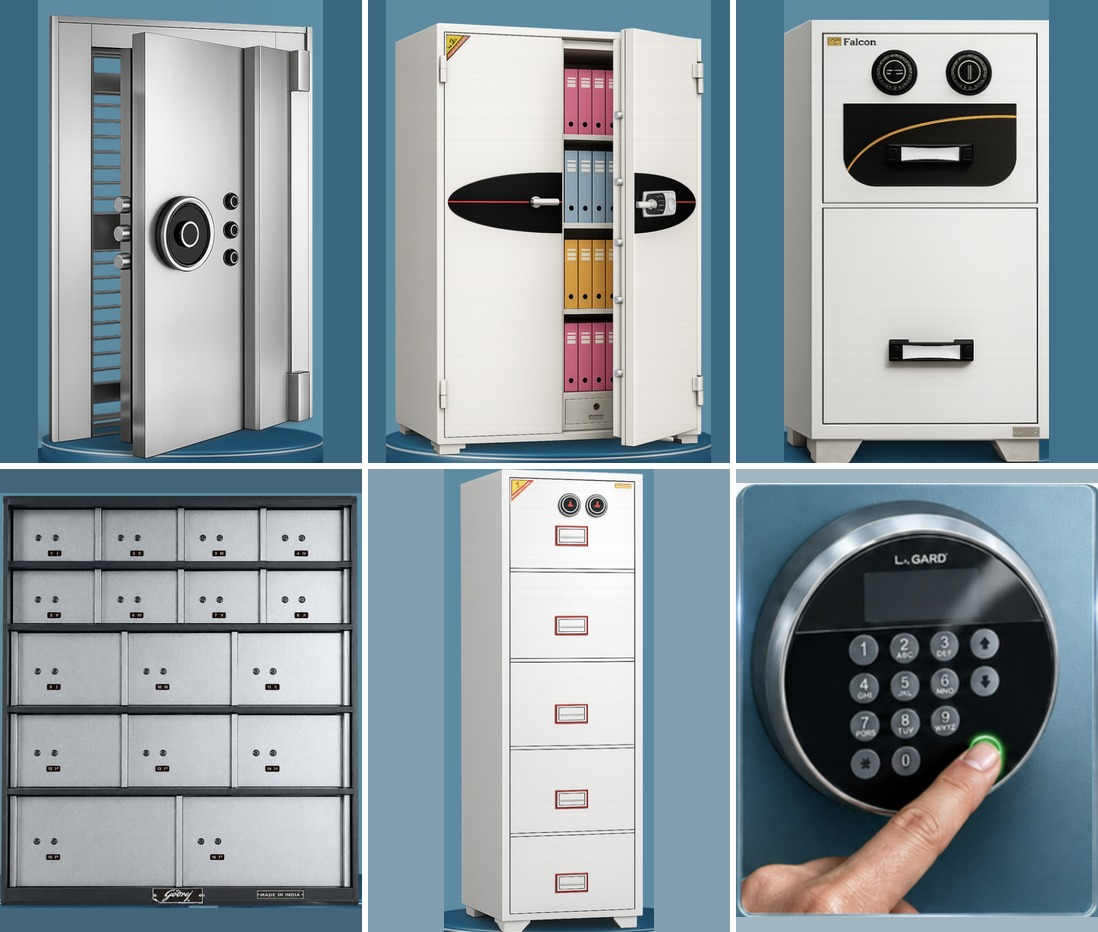
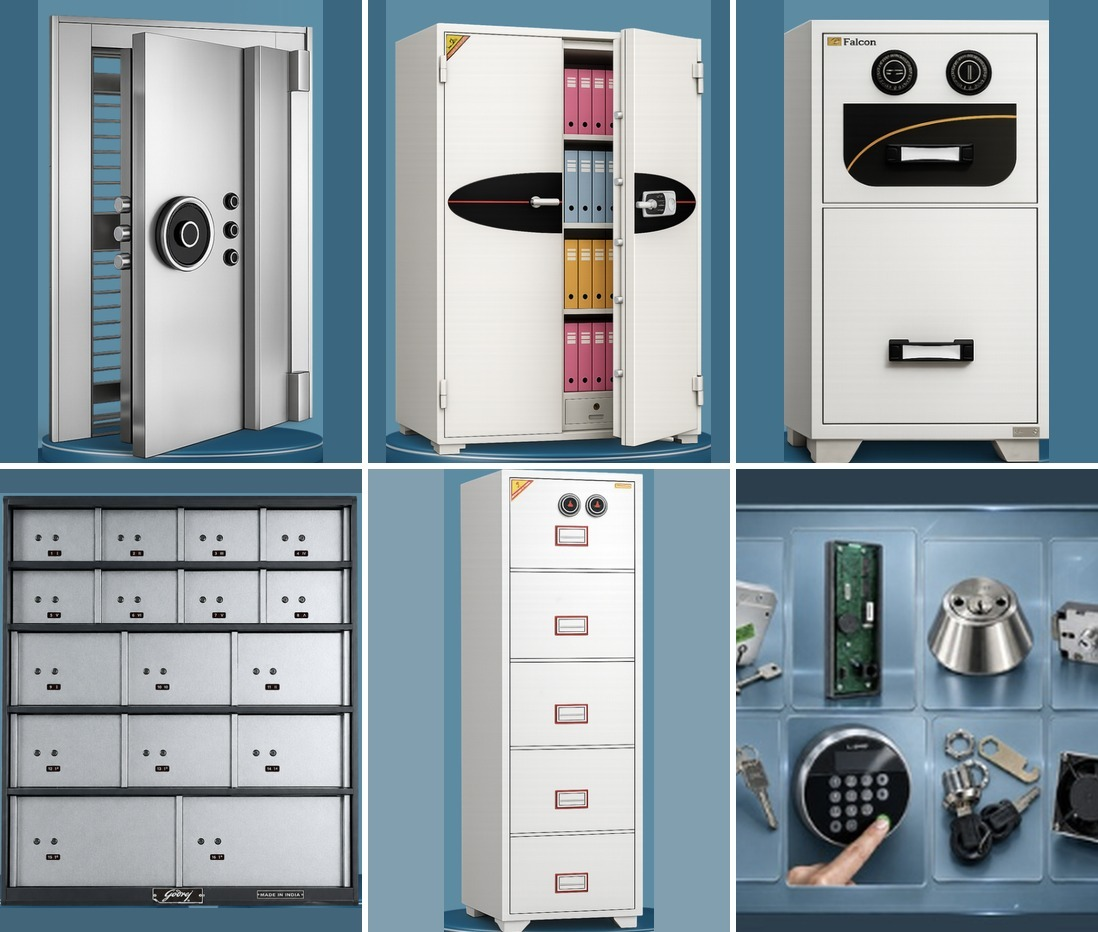
Finish remaining تعديل items: remove SAMA, update hero mosaic, jewelry text
- Removed "SAMA" from the hero badge, now reads "ISO Compliant" only
  (تعديل-1)
- Hero mosaic's last tile swapped from the plain L.GARD keypad photo
  to the 8-panel lock-components collage, matching the customer's
  mosaic preview (تعديل-5)
- Added "ومحلات المجوهرات" (and jewelry stores) to the custom vault
  room service's description and highlights, since the service photo
  shows a jewelry safe-deposit room (تعديل-7)

تعديل-4 (footer) and تعديل-6 (services page) were already-correct
confirmation screenshots, verified and needed no changes.

Changed region(s): [[0.6503, 0.4979, 1.0, 1.0]]

diff --git a/services/index.html b/services/index.html
@@ -187,11 +187,11 @@
             <div class="division-body">
               <span class="division-tag">تصميم حسب الطلب</span>
               <h2 class="division-title" style="font-size: 1.5rem;">تصميم وإنشاء الغرف المحصنة بمقاسات مختلفة حسب طلب العميل</h2>
-              <p class="division-desc">تصميم وإنشاء الغرف المحصنة من الألواح الفولاذية المدرعة بمقاسات وتصاميم مختلفة حسب طلب العميل ومساحة الموقع، تشمل أبواب الخزائن والأقفال الرقمية وأنظمة التهوية، لتوفير حل متكامل يناسب الفروع المصرفية والمؤسسات.</p>
+              <p class="division-desc">تصميم وإنشاء الغرف المحصنة من الألواح الفولاذية المدرعة بمقاسات وتصاميم مختلفة حسب طلب العميل ومساحة الموقع، تشمل أبواب الخزائن والأقفال الرقمية وأنظمة التهوية، لتوفير حل متكامل يناسب الفروع المصرفية والمؤسسات التجارية ومحلات المجوهرات.</p>
               <ul style="list-style: none; margin: 0 0 20px; padding: 0; display: grid; gap: 8px;">
                 <li style="display: flex; align-items: baseline; gap: 8px; font-size: 0.875rem; color: var(--text-body);"><span style="color: var(--primary); font-weight: 800;">&check;</span> مقاسات وتصاميم حسب الطلب</li>
                 <li style="display: flex; align-items: baseline; gap: 8px; font-size: 0.875rem; color: var(--text-body);"><span style="color: var(--primary); font-weight: 800;">&check;</span> ألواح فولاذية مدرعة متكاملة</li>
-                <li style="display: flex; align-items: baseline; gap: 8px; font-size: 0.875rem; color: var(--text-body);"><span style="color: var(--primary); font-weight: 800;">&check;</span> حل شامل للفروع والمؤسسات</li>
+                <li style="display: flex; align-items: baseline; gap: 8px; font-size: 0.875rem; color: var(--text-body);"><span style="color: var(--primary); font-weight: 800;">&check;</span> حل شامل للفروع والمؤسسات التجارية ومحلات المجوهرات</li>
               </ul>
               <a href="../service-request/index.html" class="division-btn">
                 <span>اطلب هذه الخدمة</span>

diff --git a/en/services/index.html b/en/services/index.html
@@ -187,11 +187,11 @@
             <div class="division-body">
               <span class="division-tag">Custom Design</span>
               <h2 class="division-title" style="font-size: 1.5rem;">Custom Vault Room Design & Construction</h2>
-              <p class="division-desc">Design and construction of fortified vault rooms from armored steel panels, in custom sizes and layouts according to the customer's request and site area, including vault doors, digital locks, and ventilation systems, for a complete solution suited to bank branches and institutions.</p>
+              <p class="division-desc">Design and construction of fortified vault rooms from armored steel panels, in custom sizes and layouts according to the customer's request and site area, including vault doors, digital locks, and ventilation systems, for a complete solution suited to bank branches, commercial institutions, and jewelry stores.</p>
               <ul style="list-style: none; margin: 0 0 20px; padding: 0; display: grid; gap: 8px;">
                 <li style="display: flex; align-items: baseline; gap: 8px; font-size: 0.875rem; color: var(--text-body);"><span style="color: var(--primary); font-weight: 800;">&check;</span> Custom sizes and layouts</li>
                 <li style="display: flex; align-items: baseline; gap: 8px; font-size: 0.875rem; color: var(--text-body);"><span style="color: var(--primary); font-weight: 800;">&check;</span> Complete armored steel panels</li>
-                <li style="display: flex; align-items: baseline; gap: 8px; font-size: 0.875rem; color: var(--text-body);"><span style="color: var(--primary); font-weight: 800;">&check;</span> Full solution for branches and institutions</li>
+                <li style="display: flex; align-items: baseline; gap: 8px; font-size: 0.875rem; color: var(--text-body);"><span style="color: var(--primary); font-weight: 800;">&check;</span> Full solution for branches, businesses, and jewelry stores</li>
               </ul>
               <a href="../service-request/index.html" class="division-btn">
                 <span>Request This Service</span>

diff --git a/index.html b/index.html
@@ -165,12 +165,12 @@
             </div>
           </div>
           <div class="hero-media-card">
-            <img src="assets/img/banners/hero-showcase.jpg?v=415e25a2" alt="أبواب الخزائن المحصنة، الخزائن الحديدية، دواليب الملفات، خزائن الإيداع، الأبواب الأمنية، والأقفال" width="1098" height="932">
+            <img src="assets/img/banners/hero-showcase.jpg?v=1fe98311" alt="أبواب الخزائن المحصنة، الخزائن الحديدية، دواليب الملفات، خزائن الإيداع، الأبواب الأمنية، والأقفال" width="1098" height="932">
             <div class="hero-floating-pill">
               <svg viewBox="0 0 24 24"><path d="M12 1L3 5v6c0 5.55 3.84 10.74 9 12 5.16-1.26 9-6.45 9-12V5l-9-4zm-2 16l-4-4 1.41-1.41L10 14.17l6.59-6.59L18 9l-8 8z"/></svg>
               <div>
                 <strong style="display: block; font-size: 0.95rem;">معتمدون لدى كبرى البنوك</strong>
-                <span style="font-size: 0.8rem; color: var(--text-muted);">SAMA & ISO Compliant</span>
+                <span style="font-size: 0.8rem; color: var(--text-muted);">ISO Compliant</span>
               </div>
             </div>
           </div>

diff --git a/en/index.html b/en/index.html
@@ -165,12 +165,12 @@
             </div>
           </div>
           <div class="hero-media-card">
-            <img src="../assets/img/banners/hero-showcase.jpg?v=415e25a2" alt="Vault doors, fireproof safes, filing cabinets, deposit lockers, security doors, and locks" width="1098" height="932">
+            <img src="../assets/img/banners/hero-showcase.jpg?v=1fe98311" alt="Vault doors, fireproof safes, filing cabinets, deposit lockers, security doors, and locks" width="1098" height="932">
             <div class="hero-floating-pill">
               <svg viewBox="0 0 24 24"><path d="M12 1L3 5v6c0 5.55 3.84 10.74 9 12 5.16-1.26 9-6.45 9-12V5l-9-4zm-2 16l-4-4 1.41-1.41L10 14.17l6.59-6.59L18 9l-8 8z"/></svg>
               <div>
                 <strong style="display: block; font-size: 0.95rem;">Certified by Major Banks</strong>
-                <span style="font-size: 0.8rem; color: var(--text-muted);">SAMA & ISO Compliant</span>
+                <span style="font-size: 0.8rem; color: var(--text-muted);">ISO Compliant</span>
               </div>
             </div>
           </div>

diff --git a/build_site.py b/build_site.py
@@ -900,7 +900,7 @@ def build_homepage(is_en=False):
               <svg viewBox="0 0 24 24"><path d="M12 1L3 5v6c0 5.55 3.84 10.74 9 12 5.16-1.26 9-6.45 9-12V5l-9-4zm-2 16l-4-4 1.41-1.41L10 14.17l6.59-6.59L18 9l-8 8z"/></svg>
               <div>
                 <strong style="display: block; font-size: 0.95rem;">{t['floating_cert']}</strong>
-                <span style="font-size: 0.8rem; color: var(--text-muted);">SAMA & ISO Compliant</span>
+                <span style="font-size: 0.8rem; color: var(--text-muted);">ISO Compliant</span>
               </div>
             </div>
           </div>
@@ -1258,14 +1258,14 @@ def build_services_page(is_en=False):
     vault_tag = "تصميم حسب الطلب" if not is_en else "Custom Design"
     vault_title = "تصميم وإنشاء الغرف المحصنة بمقاسات مختلفة حسب طلب العميل" if not is_en else "Custom Vault Room Design & Construction"
     vault_desc = (
-        "تصميم وإنشاء الغرف المحصنة من الألواح الفولاذية المدرعة بمقاسات وتصاميم مختلفة حسب طلب العميل ومساحة الموقع، تشمل أبواب الخزائن والأقفال الرقمية وأنظمة التهوية، لتوفير حل متكامل يناسب الفروع المصرفية والمؤسسات."
+        "تصميم وإنشاء الغرف المحصنة من الألواح الفولاذية المدرعة بمقاسات وتصاميم مختلفة حسب طلب العميل ومساحة الموقع، تشمل أبواب الخزائن والأقفال الرقمية وأنظمة التهوية، لتوفير حل متكامل يناسب الفروع المصرفية والمؤسسات التجارية ومحلات المجوهرات."
         if not is_en else
-        "Design and construction of fortified vault rooms from armored steel panels, in custom sizes and layouts according to the customer's request and site area, including vault doors, digital locks, and ventilation systems, for a complete solution suited to bank branches and institutions."
+        "Design and construction of fortified vault rooms from armored steel panels, in custom sizes and layouts according to the customer's request and site area, including vault doors, digital locks, and ventilation systems, for a complete solution suited to bank branches, commercial institutions, and jewelry stores."
     )
     vault_highlights = (
-        ["مقاسات وتصاميم حسب الطلب", "ألواح فولاذية مدرعة متكاملة", "حل شامل للفروع والمؤسسات"]
+        ["مقاسات وتصاميم حسب الطلب", "ألواح فولاذية مدرعة متكاملة", "حل شامل للفروع والمؤسسات التجارية ومحلات المجوهرات"]
         if not is_en else
-        ["Custom sizes and layouts", "Complete armored steel panels", "Full solution for branches and institutions"]
+        ["Custom sizes and layouts", "Complete armored steel panels", "Full solution for branches, businesses, and jewelry stores"]
     )
     vault_highlights_html = "\n".join(
         f'                <li style="display: flex; align-items: baseline; gap: 8px; font-size: 0.875rem; color: var(--text-body);">'
